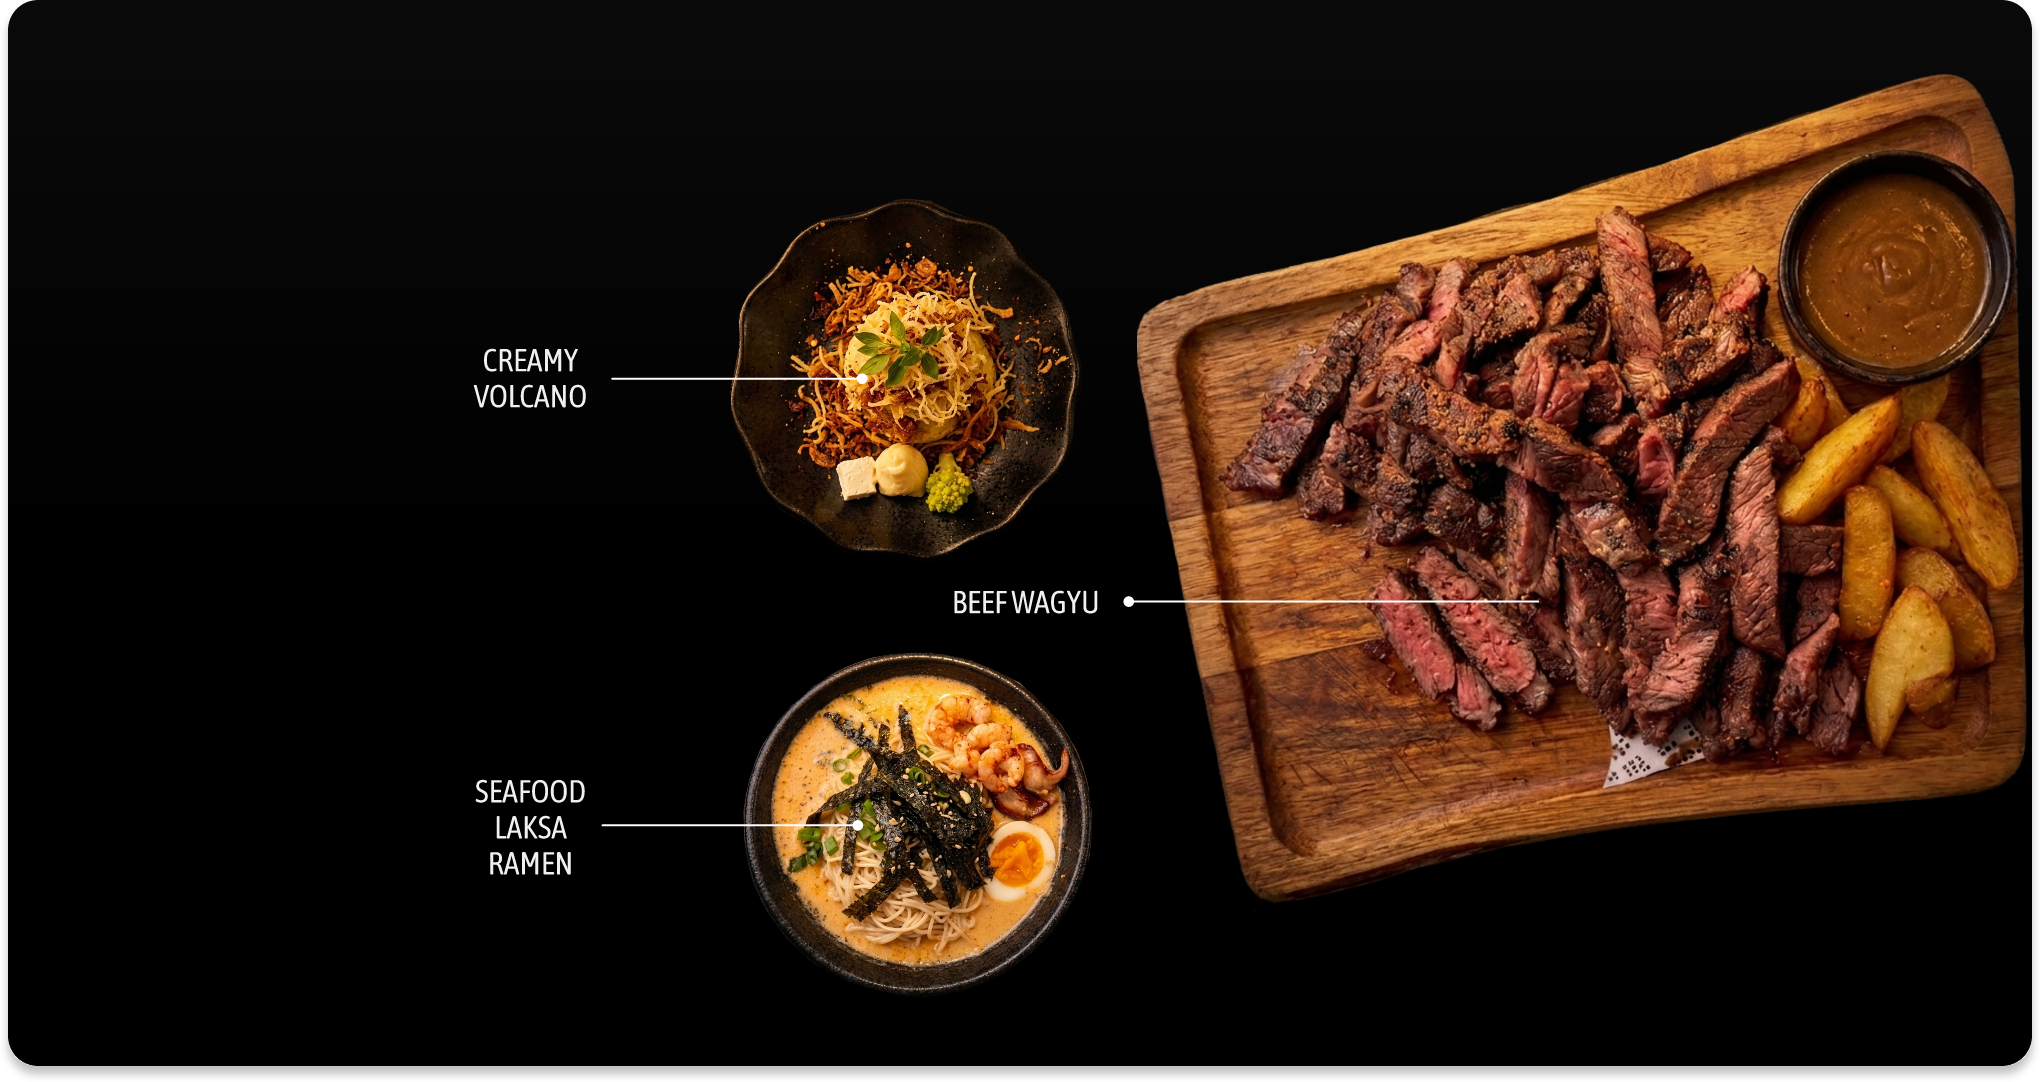
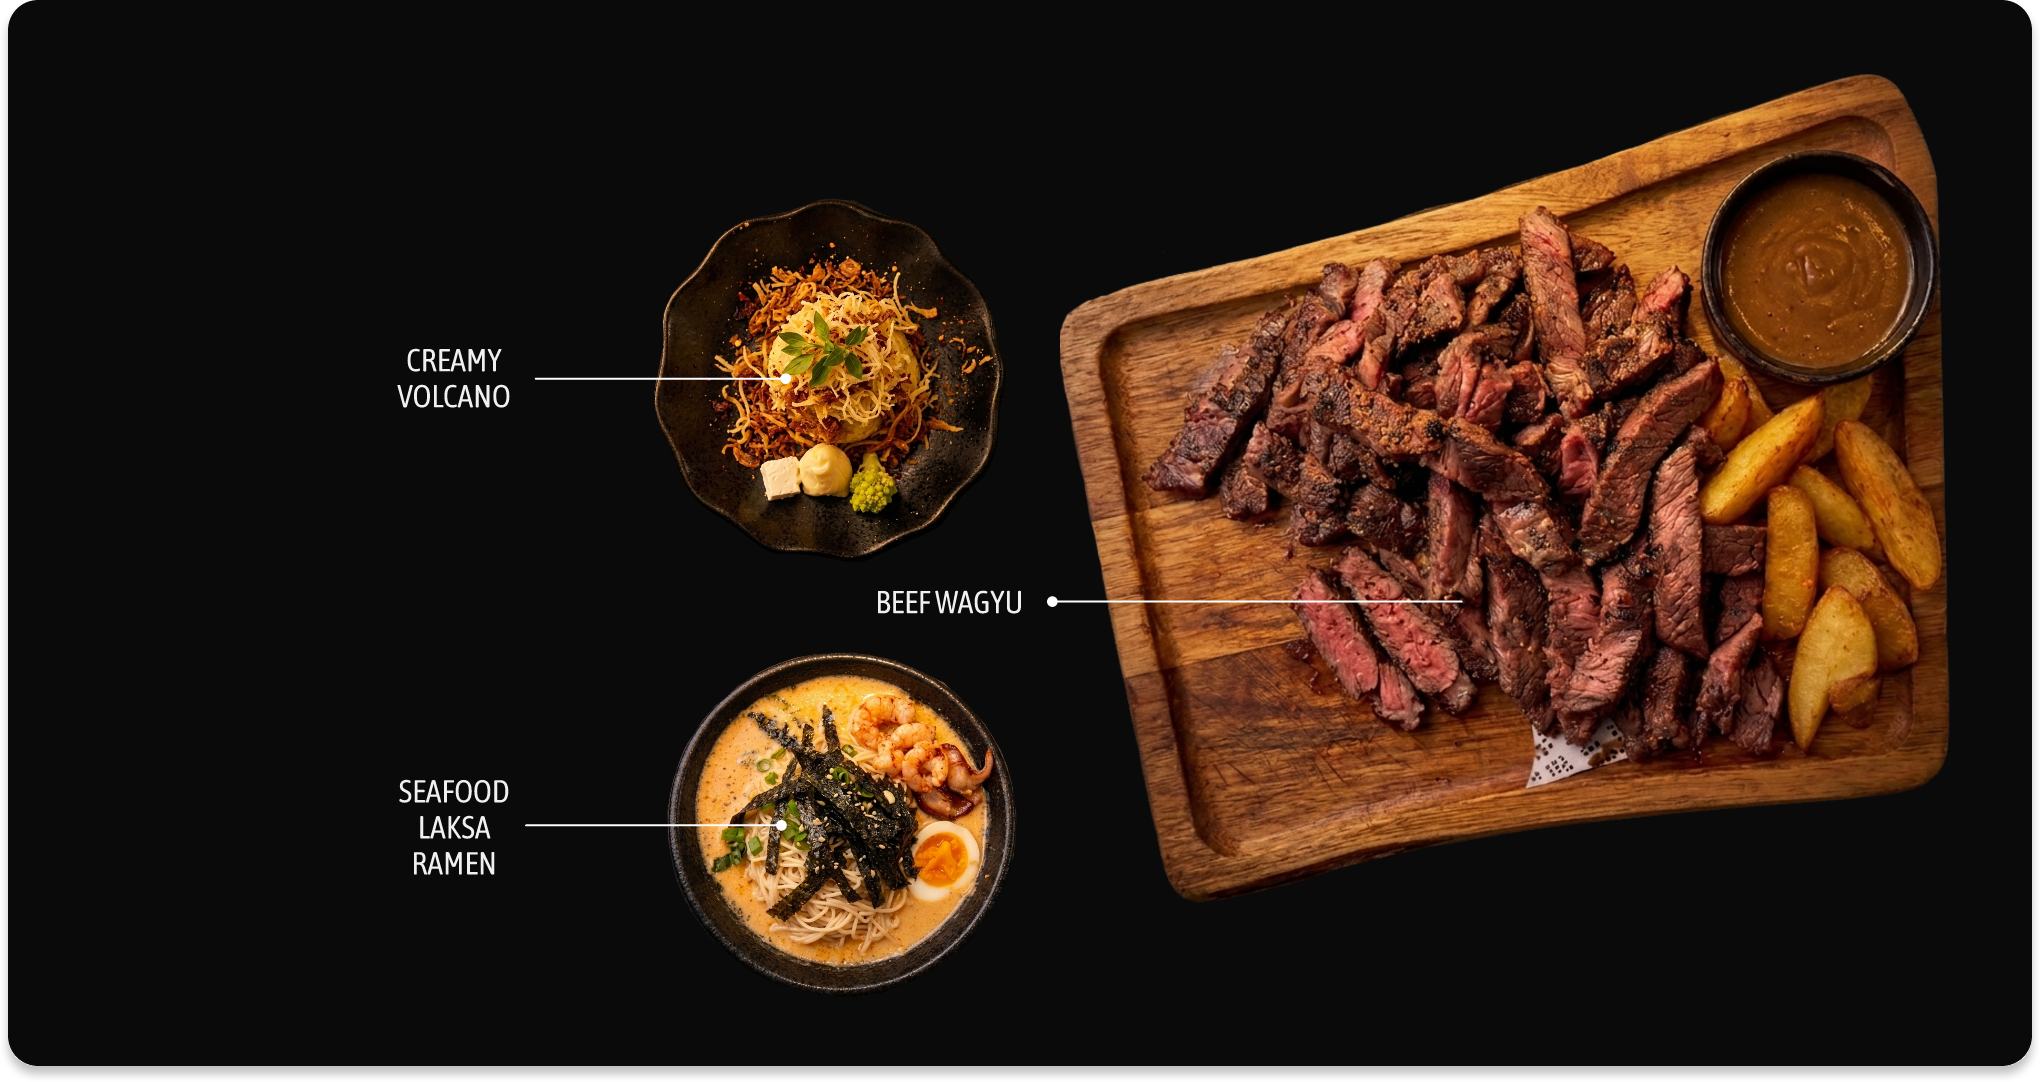
Fix Carousel Style and Responsiveness

diff --git a/Website/style.css b/Website/style.css
@@ -164,7 +164,8 @@ header.nav-open nav {
 #home-pattern-bg .nav-bar.scrolled, #menu-bg .nav-bar.scrolled, .black-bg .nav-bar.scrolled {
     background-color: #000000d2;
     backdrop-filter: blur(10px);
-    box-shadow: 0px 10px 15px #fffff010;
+    border-bottom: 1.5px solid  #fffff021;
+    transition: 0.2s ease;
 }
 
 #support-body .nav-bar.scrolled, #directions-body .nav-bar.scrolled, #support-body .nav-links.open, #directions-body .nav-links.open, #support-body header.nav-open nav, #directions-body header.nav-open nav {
@@ -505,6 +506,8 @@ main #home-main {
 .promotion-offer picture img, .promotion-offer picture source {
     animation: offersAnim 1s ease;
     max-width: 30em;
+    width: auto;
+    max-height: 60vh;
 }
 
 /* Slideshow container */
@@ -549,17 +552,20 @@ main #home-main {
 
 .offer-details {
     display: flex;
-    gap: 2.5em;
+    gap: 1.5em;
+    margin: 0 2em;
     justify-content: center;
+    opacity: 0;
     animation: carouselAnim 0.5s ease forwards;
-    animation-delay: 1s;
+    animation-delay: 1.2s;
 }
 
 .offers-text h2 {
-    font-size: 3em;
+    font-size: 2.3em;
     margin: 0 0.3em 0.5em 0.3em;
+    opacity: 0;
     animation: carouselAnim 0.5s ease forwards;
-    animation-delay: 0.8s;
+    animation-delay: 1s;
 }
 
 /* The dots/bullets/indicators */
@@ -579,7 +585,7 @@ main #home-main {
 }
 
 @keyframes carouselAnim {
-    0% {opacity: 0; transform: translateX(-100px)} 
+    0% {opacity: 0; transform: translateX(-100px); display: none;} 
     100% {opacity: 1; transform: translateX(0px)}
 }
 
@@ -1512,13 +1518,18 @@ b {
 
     /* ===== MAIN STYLING (HOME PAGE: PROMOTIONS)===== */
 
+    #promotions {
+        padding-bottom: 15em;
+    }
+
     .japanese-promotions-text {
         font-size: 4em;
         opacity: 0.5;
     }
 
     .promotion-offer picture img, .promotion-offer picture source {
-        max-width: 85%;
+        max-width: 90vw;
+
     }
 
     .offer-details {
@@ -1538,7 +1549,7 @@ b {
     .prev, .next {
         cursor: pointer;
         position: absolute;
-        top: 50%;
+        top: 118%;
         margin-top: 0px;
     }
 
@@ -1547,11 +1558,11 @@ b {
     }
 
     .next {
-        right: 0;
+        right: 43%;
     }
 
     .prev {
-        left: 0;
+        left: 43%;
     }
 
     #view-menu-btn {
@@ -2187,6 +2198,7 @@ b {
         align-items: start;
         gap: 0.5em;
         padding-top: 1em;
+        margin: 0;
     }
 
     .offer-details p {
@@ -2223,7 +2235,7 @@ b {
     }
 
     .prev, .next {
-        top: 113%;
+        top: 40%;
     }
 
     .prev:active, .next:active {
@@ -2237,11 +2249,11 @@ b {
     }
 
     .next {
-        right: 46%;
+        right: 0;
     }
 
     .prev {
-        left: 46%;
+        left: 10%;
     }
 
     /* ===== MAIN STYLING (HOME PAGE: REVIEWS)===== */

diff --git a/Website/index.html b/Website/index.html
@@ -188,6 +188,8 @@
                 <span class="dot" onclick="currentSlide(1)"></span>
                 <span class="dot" onclick="currentSlide(2)"></span>
                 <span class="dot" onclick="currentSlide(3)"></span>
+                <span class="dot" onclick="currentSlide(4)"></span>
+                <span class="dot" onclick="currentSlide(5)"></span>
             </div>
 
             <!-- View General Menu Button -->
